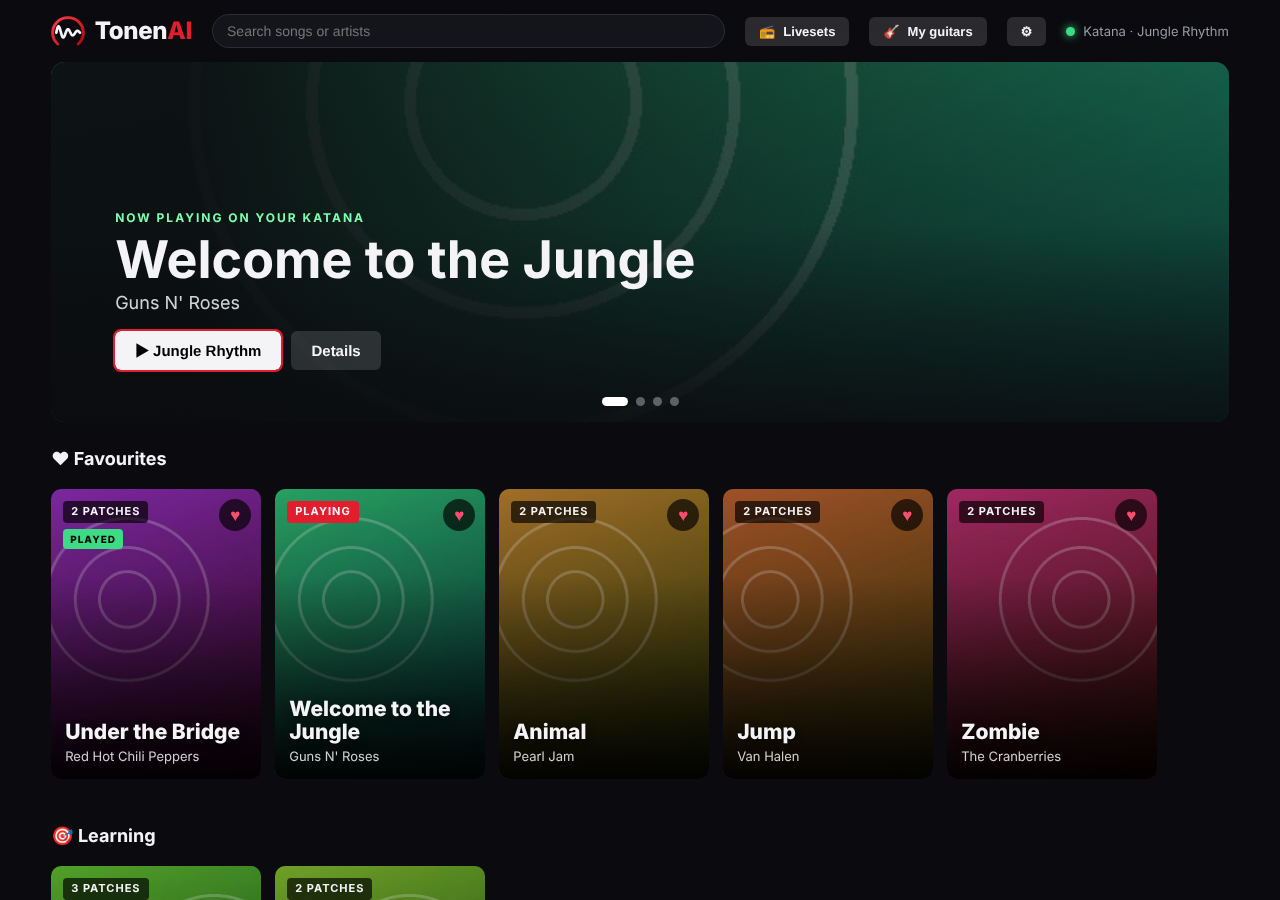
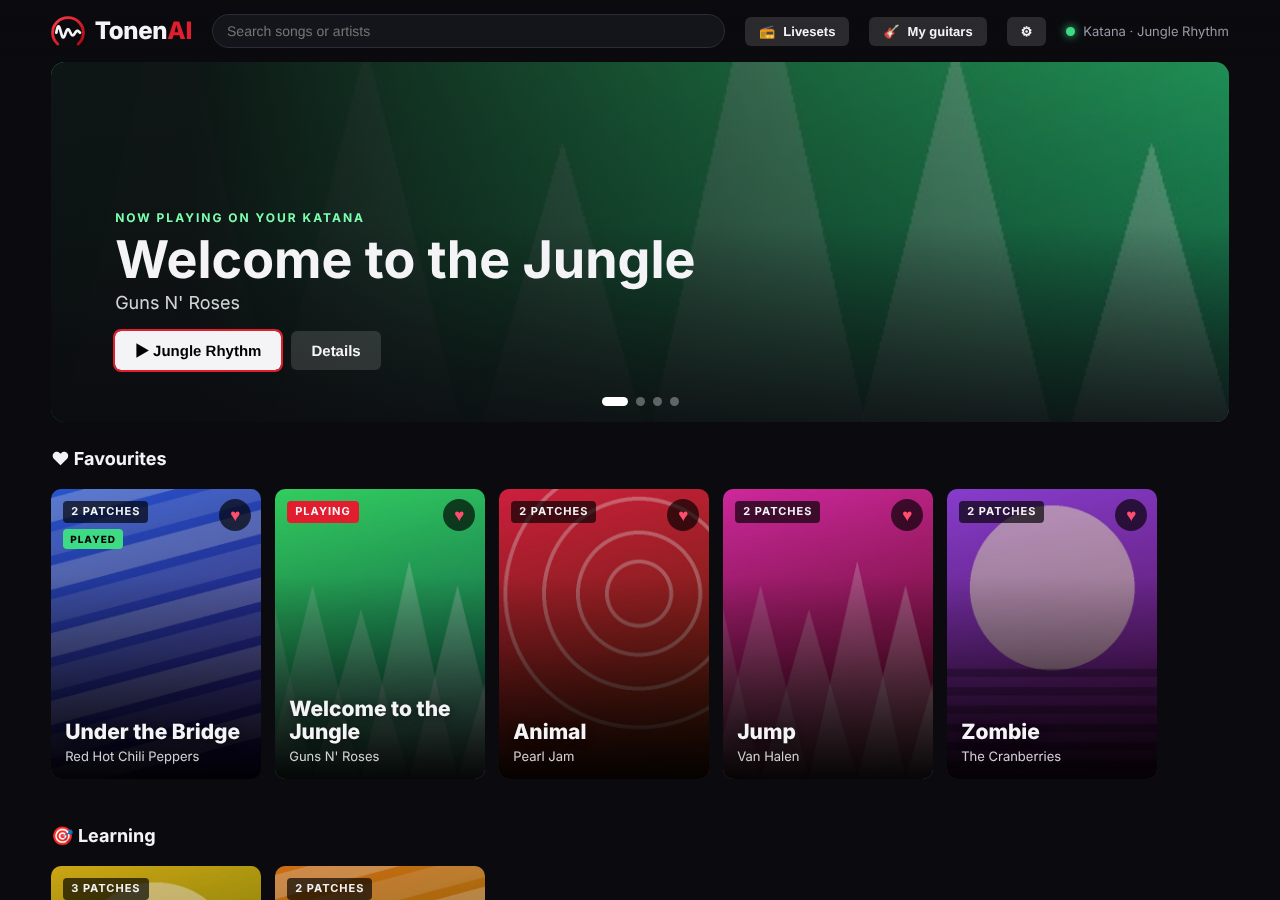
Colourful generated cover for songs without artwork; refresh screenshots
Claude-Session: https://claude.ai/code/session_01RxSADN1eK3yQDoSVV6n1DG

diff --git a/app/ui.html b/app/ui.html
@@ -275,7 +275,16 @@ const api = () => window.pywebview && window.pywebview.api;
 
 function hue(str) { let h = 0; for (const c of str) h = (h * 31 + c.charCodeAt(0)) % 360; return h; }
 function bg(s) { return s.cover ? `linear-gradient(0deg, #0006, #0002), url('${s.cover}') center/cover` : grad(s); }
-function grad(s) { const h = hue(s.artist || s.title); return `linear-gradient(155deg, hsl(${h} 65% 38%), hsl(${(h + 50) % 360} 70% 18%))`; }
+function grad(s) {   // no cover yet: a colourful generated one, always the same for the same song
+  const h = hue(s.artist || s.title), st = Math.floor(hue((s.id || "") + (s.title || "")) / 7) % 4;
+  const base = `linear-gradient(155deg, hsl(${h} 72% 48%), hsl(${(h + 50) % 360} 75% 20%))`;
+  const pat = [
+    "repeating-radial-gradient(circle at 68% 30%, transparent 0 34px, #ffffff26 34px 40px)",
+    "repeating-linear-gradient(115deg, #ffffff1c 0 22px, transparent 22px 56px)",
+    "radial-gradient(circle at 50% 34%, #ffeccc70 0 27%, transparent 28%)",
+    "repeating-linear-gradient(60deg, #ffffff16 0 30px, transparent 30px 60px), repeating-linear-gradient(-60deg, #ffffff10 0 30px, transparent 30px 60px)"][st];
+  return `${pat}, ${base}`;
+}
 function store(get, set) { try { return get ? JSON.parse(localStorage.getItem(get) || "null") : localStorage.setItem(...set); } catch (e) { return null; } }
 let META = {};      // your practice status + notes per song: { id: { status: "learning" | "played", notes } } (data/song_meta.json)
 let RECENT = null;   // songs last sent to the amp, newest first; kept on disk by the app (data/recent.json)

diff --git a/README.md b/README.md
@@ -20,7 +20,7 @@ or exports a `.tsl` liveset for BOSS TONE STUDIO. Includes a desktop app to brow
 | --- | --- |
 | ![Livesets](docs/screenshots/livesets.png) | ![My guitars](docs/screenshots/guitars.png) |
 
-*Screenshots use sample data and placeholder covers (generated, not album artwork).*
+*Screenshots use sample data and generated covers (the app draws one when a song has no artwork; no album art is included).*
 
 ## What is a `.tsl` file?
 The file format BOSS TONE STUDIO uses to save a set of patches (a "liveset"; the name is inferred from the app,
